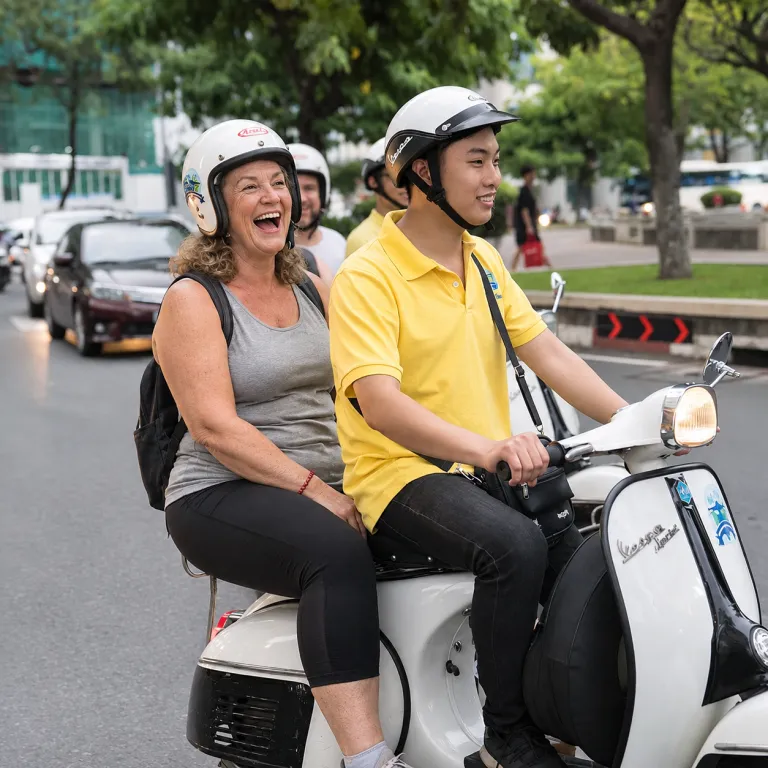
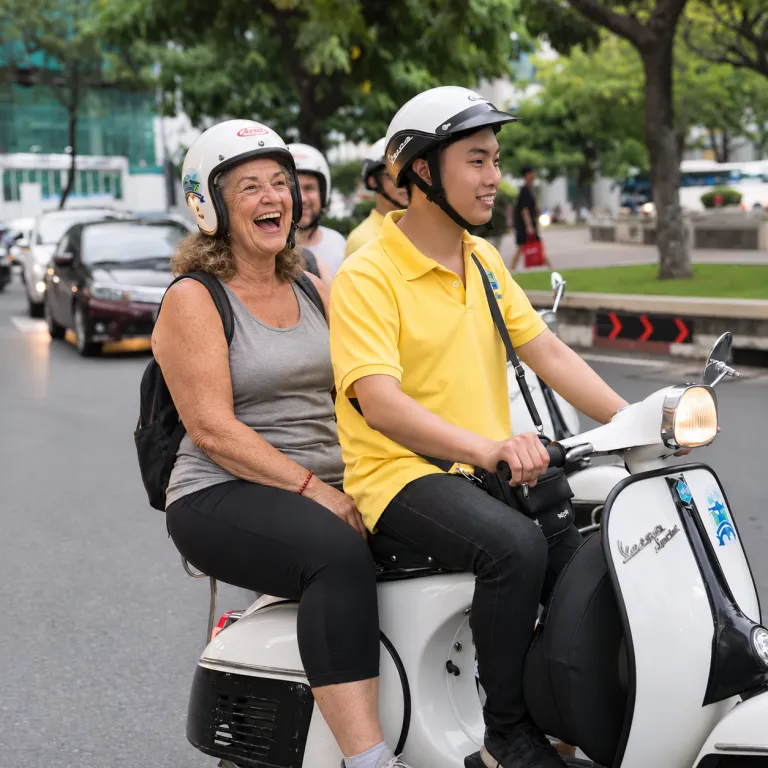
Client round 2026-11-01: journey mottos on their own line, new What's Included copy, older-guest photos
- "Curated Essence" / "Deeper Discovery" sit on their own line under the
  journey name everywhere (Home, Journeys, both tour pages)
- What's Included on the Journeys page: client's new intro, 10 items and
  closing line; the "varies by journey" note stays at the bottom
- FAQ "What's included in my journey?" now mentions lunches and dinners
  (page and FAQ schema)
- Five gallery photos replaced with the team's AI-edited versions (older,
  more diverse guests): rice-field-cycling, img-9, motorbike-tour-laugh
  (10-day), img-8, coconut-basket-boat (7-day); cache-busted; unused
  img-8/img-9 1024 crops removed; sources in source-images-client
- consistency.css cache-bust on every page

diff --git a/html/tours/index.html b/html/tours/index.html
@@ -106,7 +106,7 @@
 <link rel="preload" href="../fonts/montserrat-latin.woff2" as="font" type="font/woff2" crossorigin>
 <link rel="stylesheet" href="../css/main.css?v=20261029">
 <link rel="stylesheet" href="../css/tours.css?v=20261031">
-<link rel="stylesheet" href="../css/consistency.css?v=20261031b">
+<link rel="stylesheet" href="../css/consistency.css?v=20261101">
 </head>
 <body class="page-tours is-inner">
 
@@ -247,7 +247,7 @@
     <ul class="tour-grid">
         <li class="tour-card tour-card--essence">
           <a class="tour-card__media" href="/tours/7-day-curated-essence/"><img src="../images/hoian-aodai-friends-768.webp" width="768" height="464" alt="Seven women in floral ao dai and conical hats strolling down a lantern-hung street in Hoi An"></a>
-          <h3 class="tour-card__title"><a href="/tours/7-day-curated-essence/">7-Day Vietnam Escape “Curated Essence”</a></h3>
+          <h3 class="tour-card__title"><a href="/tours/7-day-curated-essence/">7-Day Vietnam Escape <span class="title-motto">“Curated Essence”</span></a></h3>
           <p class="tour-card__route">Da Nang · Hoi An<i aria-hidden="true">|</i>7 Days · 6 Nights</p>
           <p class="tour-card__cost">Price: <strong>$2,495</strong> per person</p>
           <p class="tour-card__facts">Meals &amp; Experiences included<i aria-hidden="true">|</i>Intimate groups of typically 6–10 women</p>
@@ -267,7 +267,7 @@
         </li>
         <li class="tour-card tour-card--balanced">
           <a class="tour-card__media" href="/tours/10-day-balanced-journey/"><img src="../images/hue-thien-mu-aodai-768.webp" width="768" height="768" alt="A woman in a white ao dai on the stone steps below Thien Mu Pagoda in Hue at sunset"></a>
-          <h3 class="tour-card__title"><a href="/tours/10-day-balanced-journey/">10-Day Vietnam Journey “Deeper Discovery”</a></h3>
+          <h3 class="tour-card__title"><a href="/tours/10-day-balanced-journey/">10-Day Vietnam Journey <span class="title-motto">“Deeper Discovery”</span></a></h3>
           <p class="tour-card__route">Da Nang · Hoi An · Hue<i aria-hidden="true">|</i>10 Days · 9 Nights</p>
           <p class="tour-card__cost">Price: <strong>$3,295</strong> per person</p>
           <p class="tour-card__facts">Meals &amp; Experiences included<i aria-hidden="true">|</i>Intimate groups of typically 6–10 women</p>
@@ -293,21 +293,21 @@
     <div class="sj-head">
       <p class="sj-eyebrow">WHAT’S INCLUDED</p>
       <h2 class="sj-title">Thoughtfully planned. <em>Effortlessly experienced.</em></h2>
-      <p class="sj-head__desc">Each journey brings together comfortable accommodations, curated experiences, and thoughtful coordination, so you can focus on enjoying your time in Central Vietnam.</p>
+      <p class="sj-head__desc">One thoughtfully curated journey, with exceptional accommodations, meaningful experiences, and personalized care throughout your time in Central Vietnam.</p>
     </div>
     <ul class="sj-checks sj-incl__list">
-      <li><strong>Accommodations &amp; Meals</strong> Enjoy thoughtfully selected upscale hotels, daily hotel breakfasts, and all lunches and dinners specified in your chosen itinerary, at carefully selected restaurants that capture the flavors and culinary charm of Vietnam. Each dining experience is thoughtfully curated to make your time in Vietnam as memorable as it is enriching. Accommodations are based on double occupancy, with two guests sharing a room.</li>
-      <li><strong>Daily Dining &amp; Culinary Experiences</strong> Enjoy daily hotel breakfast, along with lunch and dinner at carefully selected restaurants showcasing the wonderful flavors of Central Vietnam. Your journey also includes special welcome and farewell dinners to celebrate the beginning and end of your experience.</li>
-      <li><strong>Room-Sharing Options</strong> Solo travelers may request a roommate match, subject to availability. If a suitable match cannot be arranged, a single-occupancy supplement may apply. Private rooms are available for an additional charge, subject to availability.</li>
-      <li><strong>Airport Transfers &amp; Transportation</strong> Enjoy convenient airport transfers and comfortable ground transportation for the activities outlined in your itinerary.</li>
-      <li><strong>Sightseeing &amp; Entrance Fees</strong> Explore Vietnam’s cultural treasures and iconic landmarks, with admission fees included for scheduled attractions.</li>
-      <li><strong>Curated Excursions &amp; Activities</strong> Experience Central Vietnam through thoughtfully planned excursions, cultural encounters, and memorable local experiences.</li>
-      <li><strong>English-Speaking Guide</strong> Discover Vietnam’s culture and history with insights from a knowledgeable, English-speaking local guide during scheduled guided experiences.</li>
-      <li><strong>Dedicated Host &amp; Trip Coordination</strong> Enjoy a dedicated host and thoughtful coordination throughout your journey, so you can relax and enjoy each experience.</li>
-      <li><strong>Personal Concierge Assistance</strong> We can help coordinate appointments with independent health, dental, beauty, and wellness providers. Services and payments are arranged directly with providers.</li>
-      <li><strong>Signature Wellness Experiences</strong> Unwind with selected wellness treatments included in your chosen package, as detailed in your itinerary.</li>
+      <li><strong>Premium Accommodations</strong> Enjoy comfortable stays at carefully selected five-star hotels and upscale boutique properties. Package pricing is based on double occupancy.</li>
+      <li><strong>Room-Sharing Arrangements</strong> We’ll make every effort to thoughtfully pair guests who are comfortable sharing a room. If a suitable roommate cannot be arranged, a single-occupancy supplement will apply. Guests who prefer a private room may also request one for an additional fee, subject to availability.</li>
+      <li><strong>All Meals Included</strong> Start each day with breakfast at your hotel, followed by thoughtfully selected lunches and dinners featuring the flavors of Central Vietnam.</li>
+      <li><strong>Airport Transfers &amp; Ground Transportation</strong> Airport transfers and all ground transportation required by your scheduled itinerary.</li>
+      <li><strong>All Scheduled Sightseeing &amp; Entrance Fees</strong> Admission to attractions, landmarks, and sightseeing locations included in your itinerary.</li>
+      <li><strong>Curated Excursions &amp; Activities</strong> All activities and excursions specifically listed in your selected journey’s itinerary.</li>
+      <li><strong>Bilingual Tour Guide</strong> Local knowledge, cultural insights, and guidance throughout scheduled guided experiences.</li>
+      <li><strong>Dedicated Host &amp; Trip Coordination</strong> A welcoming point of contact to help coordinate your journey and ensure a smooth, enjoyable experience.</li>
+      <li><strong>Personal Concierge Assistance</strong> Personalized assistance coordinating appointments for health, wellness, beauty, and personal-care services during your stay.</li>
+      <li><strong>Signature Wellness Experiences</strong> The specific wellness treatments identified as included in your selected package.</li>
     </ul>
-    <p class="sj-incl__close">Your journey is designed to make exploring Central Vietnam feel seamless, enriching, and personal - so you can spend less time managing logistics and more time enjoying the experience.</p>
+    <p class="sj-incl__close">Every detail is carefully arranged to make exploring Central Vietnam feel seamless, enriching, and personal—so you can spend less time managing logistics and more time enjoying the experience.</p>
     <p class="sj-note sj-incl__fine">What’s included varies by journey. Please refer to your selected package’s detailed itinerary for specific inclusions and exclusions. Optional services, treatments, and appointments not expressly included in your package may incur additional charges.</p>
 
     <div class="sj-head sj-excl__head">
@@ -368,13 +368,13 @@
     <div class="sj-days__list">
       <a class="sj-day sj-day--essence" href="/tours/7-day-curated-essence/">
         <p class="sj-day__meta">7 Days · Da Nang &amp; Hoi An</p>
-        <h3 class="sj-day__title">Vietnam Escape “Curated Essence”</h3>
+        <h3 class="sj-day__title">Vietnam Escape <span class="title-motto">“Curated Essence”</span></h3>
         <p><strong>Why choose 7 days?</strong> One memorable week. A beautiful balance of discovery, indulgence, and renewal.</p>
         <span class="sj-day__link">See the full journey →</span>
       </a>
       <a class="sj-day sj-day--balanced" href="/tours/10-day-balanced-journey/">
         <p class="sj-day__meta">10 Days · Da Nang, Hoi An &amp; Hue</p>
-        <h3 class="sj-day__title">Vietnam Journey “Deeper Discovery”</h3>
+        <h3 class="sj-day__title">Vietnam Journey <span class="title-motto">“Deeper Discovery”</span></h3>
         <p><strong>Why choose 10 days?</strong> Created for women who want to experience Central Vietnam beyond its highlights, this extended journey offers a richer cultural experience without the feeling of being rushed.</p>
         <span class="sj-day__link">See the full journey →</span>
       </a>

diff --git a/html/tours/10-day-balanced-journey/index.html b/html/tours/10-day-balanced-journey/index.html
@@ -173,7 +173,7 @@
 <link rel="stylesheet" href="../../css/main.css?v=20261029">
 <link rel="stylesheet" href="../../css/share.css?v=20261120">
 <link rel="stylesheet" href="../../css/tour-detail.css?v=20261031b">
-<link rel="stylesheet" href="../../css/consistency.css?v=20261031b">
+<link rel="stylesheet" href="../../css/consistency.css?v=20261101">
 </head>
 <body class="is-inner page-tour">
 
@@ -219,9 +219,9 @@
     <div class="tgal" data-gallery>
       <div class="tgal__main">
         <ul class="tgal__track">
-          <li><img src="../../images/rice-field-cycling.webp" width="1400" height="1050" alt="Two friends in conical hats cycling through green rice fields"></li>
-          <li><img src="../../images/motorbike-tour-laugh.webp?v=2" width="1080" height="1080" alt="A laughing guest riding pillion on a motorbike city tour" loading="lazy"></li>
-          <li><img src="../../images/img-9.webp" width="1448" height="1086" alt="Trying on a silk scarf with a local tailor" loading="lazy"></li>
+          <li><img src="../../images/rice-field-cycling.webp?v=2" width="1400" height="1050" alt="Two friends in conical hats cycling through green rice fields"></li>
+          <li><img src="../../images/motorbike-tour-laugh.webp?v=3" width="1080" height="1080" alt="A laughing guest riding pillion on a motorbike city tour" loading="lazy"></li>
+          <li><img src="../../images/img-9.webp?v=2" width="1448" height="1086" alt="Trying on a silk scarf with a local tailor" loading="lazy"></li>
           <li><img src="../../images/14-days/hoian-rooftops-aerial.webp" width="1400" height="1050" alt="Rooftops and bougainvillea of Hoi An from above" loading="lazy"></li>
           <li><img class="tgal__face" src="../../images/cooking-class-garden.webp?v=2" width="856" height="1050" alt="Two women in aprons chopping ingredients at an outdoor cooking class" loading="lazy"></li>
           <li><img src="../../images/vn-feast-table.webp" width="1024" height="1024" alt="A table of Vietnamese dishes, from beef hotpot to spring rolls" loading="lazy"></li>
@@ -237,9 +237,9 @@
       <div class="tgal__thumbs">
         <div class="tgal__viewport">
           <ul class="tgal__strip">
-            <li><button class="is-active" type="button" aria-label="Image 1"><img src="../../images/rice-field-cycling-768.webp" width="148" height="96" alt=""></button></li>
-            <li><button type="button" aria-label="Image 2"><img src="../../images/motorbike-tour-laugh-768.webp?v=2" width="148" height="96" alt=""></button></li>
-            <li><button type="button" aria-label="Image 3"><img src="../../images/img-9-768x576.webp" width="148" height="96" alt=""></button></li>
+            <li><button class="is-active" type="button" aria-label="Image 1"><img src="../../images/rice-field-cycling-768.webp?v=2" width="148" height="96" alt=""></button></li>
+            <li><button type="button" aria-label="Image 2"><img src="../../images/motorbike-tour-laugh-768.webp?v=3" width="148" height="96" alt=""></button></li>
+            <li><button type="button" aria-label="Image 3"><img src="../../images/img-9-768x576.webp?v=2" width="148" height="96" alt=""></button></li>
             <li><button type="button" aria-label="Image 4"><img src="../../images/14-days/hoian-rooftops-aerial-768.webp" width="148" height="96" alt=""></button></li>
             <li><button type="button" aria-label="Image 5"><img class="tgal__face" src="../../images/cooking-class-garden-768.webp?v=2" width="148" height="96" alt="" loading="lazy"></button></li>
             <li><button type="button" aria-label="Image 6"><img src="../../images/vn-feast-table-768.webp" width="148" height="96" alt="" loading="lazy"></button></li>
@@ -258,7 +258,7 @@
     <nav class="tour-crumbs" aria-label="Breadcrumb">
       <a href="/">Home</a><span class="tour-crumbs__sep" aria-hidden="true"><svg viewBox="0 0 7 16" width="7" height="16" fill="none"><path d="M0 15.5 4.94 0h1.44L1.44 15.5H0Z" fill="#E8EDF1"/></svg></span><a href="/tours/">Journeys</a>
     </nav>
-    <h1 class="tour-title">Vietnam Journey “Deeper Discovery”</h1>
+    <h1 class="tour-title">Vietnam Journey <span class="title-motto">“Deeper Discovery”</span></h1>
     <p class="tour-tags"><a class="tour-tag" href="#">Culture &amp; Wellness</a></p>
 
     <div class="tour-meta">
@@ -558,7 +558,7 @@
       <div class="jcards">
         <article class="jcard">
           <a class="jcard__img" href="/tours/7-day-curated-essence/"><img src="../../images/hoian-aodai-friends-768.webp" width="768" height="464" alt="Seven women in floral ao dai and conical hats strolling down a lantern-hung street in Hoi An" loading="lazy"></a>
-          <h3 class="jcard__title"><a href="/tours/7-day-curated-essence/">Vietnam Escape “Curated Essence”</a></h3>
+          <h3 class="jcard__title"><a href="/tours/7-day-curated-essence/">Vietnam Escape <span class="title-motto">“Curated Essence”</span></a></h3>
           <p class="jcard__meta"><svg class="ic" aria-hidden="true"><use href="#i-clock"/></svg>7 days · 6 nights</p>
           <p class="jcard__meta jcard__meta--group"><svg class="ic" aria-hidden="true"><use href="#i-check"/></svg>Group Size 6–10 women</p>
           <p class="jcard__price"><span>$2,495</span> per person</p>
@@ -566,7 +566,7 @@
         </article>
         <article class="jcard">
           <a class="jcard__img" href="/tours/10-day-balanced-journey/"><img src="../../images/hue-thien-mu-aodai-768.webp" width="768" height="768" alt="A woman in a white ao dai on the stone steps below Thien Mu Pagoda in Hue at sunset" loading="lazy"></a>
-          <h3 class="jcard__title"><a href="/tours/10-day-balanced-journey/">Vietnam Journey “Deeper Discovery”</a></h3>
+          <h3 class="jcard__title"><a href="/tours/10-day-balanced-journey/">Vietnam Journey <span class="title-motto">“Deeper Discovery”</span></a></h3>
           <p class="jcard__meta"><svg class="ic" aria-hidden="true"><use href="#i-clock"/></svg>10 days · 9 nights</p>
           <p class="jcard__meta jcard__meta--group"><svg class="ic" aria-hidden="true"><use href="#i-check"/></svg>Group Size 6–10 women</p>
           <p class="jcard__price"><span>$3,295</span> per person</p>

diff --git a/html/tours/7-day-curated-essence/index.html b/html/tours/7-day-curated-essence/index.html
@@ -181,7 +181,7 @@
 <link rel="stylesheet" href="../../css/main.css?v=20261029">
 <link rel="stylesheet" href="../../css/share.css?v=20261120">
 <link rel="stylesheet" href="../../css/tour-detail.css?v=20261031b">
-<link rel="stylesheet" href="../../css/consistency.css?v=20261031b">
+<link rel="stylesheet" href="../../css/consistency.css?v=20261101">
 </head>
 <body class="is-inner page-tour">
 
@@ -228,8 +228,8 @@
       <div class="tgal__main">
         <ul class="tgal__track">
           <li><img src="../../images/hoian-cycling-lanterns.webp?v=2" width="1600" height="800" alt="Two friends cycling down a lantern-hung street in Hoi An Ancient Town"></li>
-          <li><img src="../../images/coconut-basket-boat.webp" width="1100" height="1212" alt="Two friends laughing in a bamboo basket boat through the coconut palms near Hoi An" loading="lazy"></li>
-          <li><img class="tgal__face" src="../../images/img-8.webp" width="1448" height="1086" alt="A dress fitting at a tailor in Hoi An" loading="lazy"></li>
+          <li><img src="../../images/coconut-basket-boat.webp?v=2" width="1100" height="1212" alt="Two friends laughing in a bamboo basket boat through the coconut palms near Hoi An" loading="lazy"></li>
+          <li><img class="tgal__face" src="../../images/img-8.webp?v=2" width="1448" height="1086" alt="A dress fitting at a tailor in Hoi An" loading="lazy"></li>
           <li><img class="tgal__face tgal__face--tea" src="../../images/tea-ceremony-host.webp" width="1400" height="934" alt="A tea host preparing tea on a carved wooden tea tray" loading="lazy"></li>
           <li><img src="../../images/hoian-old-town-lanterns.webp" width="1400" height="876" alt="Lanterns and bougainvillea along a busy street in Hoi An Ancient Town" loading="lazy"></li>
           <li><img src="../../images/hoian-market.webp" width="900" height="600" alt="Vendors in conical hats selling fresh vegetables at a Hoi An market" loading="lazy"></li>
@@ -247,8 +247,8 @@
         <div class="tgal__viewport">
           <ul class="tgal__strip">
             <li><button class="is-active" type="button" aria-label="Image 1"><img src="../../images/hoian-cycling-lanterns-768.webp?v=2" width="148" height="96" alt=""></button></li>
-            <li><button type="button" aria-label="Image 2"><img src="../../images/coconut-basket-boat-768.webp" width="148" height="96" alt=""></button></li>
-            <li><button type="button" aria-label="Image 3"><img class="tgal__face" src="../../images/img-8-768x576.webp" width="148" height="96" alt=""></button></li>
+            <li><button type="button" aria-label="Image 2"><img src="../../images/coconut-basket-boat-768.webp?v=2" width="148" height="96" alt=""></button></li>
+            <li><button type="button" aria-label="Image 3"><img class="tgal__face" src="../../images/img-8-768x576.webp?v=2" width="148" height="96" alt=""></button></li>
             <li><button type="button" aria-label="Image 4"><img class="tgal__face tgal__face--tea" src="../../images/tea-ceremony-host-768.webp" width="148" height="96" alt=""></button></li>
             <li><button type="button" aria-label="Image 5"><img src="../../images/hoian-old-town-lanterns-768.webp" width="148" height="96" alt="" loading="lazy"></button></li>
             <li><button type="button" aria-label="Image 6"><img src="../../images/hoian-market-768.webp" width="148" height="96" alt="" loading="lazy"></button></li>
@@ -268,7 +268,7 @@
     <nav class="tour-crumbs" aria-label="Breadcrumb">
       <a href="/">Home</a><span class="tour-crumbs__sep" aria-hidden="true"><svg viewBox="0 0 7 16" width="7" height="16" fill="none"><path d="M0 15.5 4.94 0h1.44L1.44 15.5H0Z" fill="#E8EDF1"/></svg></span><a href="/tours/">Journeys</a>
     </nav>
-    <h1 class="tour-title">Vietnam Escape “Curated Essence”</h1>
+    <h1 class="tour-title">Vietnam Escape <span class="title-motto">“Curated Essence”</span></h1>
     <p class="tour-tags"><a class="tour-tag" href="#">Culture &amp; Wellness</a></p>
 
     <div class="tour-meta">
@@ -551,7 +551,7 @@
       <div class="jcards">
         <article class="jcard">
           <a class="jcard__img" href="/tours/7-day-curated-essence/"><img src="../../images/hoian-aodai-friends-768.webp" width="768" height="464" alt="Seven women in floral ao dai and conical hats strolling down a lantern-hung street in Hoi An" loading="lazy"></a>
-          <h3 class="jcard__title"><a href="/tours/7-day-curated-essence/">Vietnam Escape “Curated Essence”</a></h3>
+          <h3 class="jcard__title"><a href="/tours/7-day-curated-essence/">Vietnam Escape <span class="title-motto">“Curated Essence”</span></a></h3>
           <p class="jcard__meta"><svg class="ic" aria-hidden="true"><use href="#i-clock"/></svg>7 days · 6 nights</p>
           <p class="jcard__meta jcard__meta--group"><svg class="ic" aria-hidden="true"><use href="#i-check"/></svg>Group Size 6–10 women</p>
           <p class="jcard__price"><span>$2,495</span> per person</p>
@@ -559,7 +559,7 @@
         </article>
         <article class="jcard">
           <a class="jcard__img" href="/tours/10-day-balanced-journey/"><img src="../../images/hue-thien-mu-aodai-768.webp" width="768" height="768" alt="A woman in a white ao dai on the stone steps below Thien Mu Pagoda in Hue at sunset" loading="lazy"></a>
-          <h3 class="jcard__title"><a href="/tours/10-day-balanced-journey/">Vietnam Journey “Deeper Discovery”</a></h3>
+          <h3 class="jcard__title"><a href="/tours/10-day-balanced-journey/">Vietnam Journey <span class="title-motto">“Deeper Discovery”</span></a></h3>
           <p class="jcard__meta"><svg class="ic" aria-hidden="true"><use href="#i-clock"/></svg>10 days · 9 nights</p>
           <p class="jcard__meta jcard__meta--group"><svg class="ic" aria-hidden="true"><use href="#i-check"/></svg>Group Size 6–10 women</p>
           <p class="jcard__price"><span>$3,295</span> per person</p>

diff --git a/html/index.html b/html/index.html
@@ -103,7 +103,7 @@
 <link rel="preload" as="image" href="images/hero-banner-poster.webp?v=4" imagesrcset="images/hero-banner-poster-960.webp?v=4 960w, images/hero-banner-poster.webp?v=4 1920w" imagesizes="100vw" fetchpriority="high">
 <link rel="stylesheet" href="css/main.css?v=20261029">
 <link rel="stylesheet" href="css/home.css?v=20261031">
-<link rel="stylesheet" href="css/consistency.css?v=20261031b">
+<link rel="stylesheet" href="css/consistency.css?v=20261101">
 </head>
 <body>
 
@@ -185,7 +185,7 @@
       <article class="tour-card tour-card--essence">
         <img class="tour-card__img" src="images/hoian-aodai-friends-768.webp" width="768" height="464" alt="Seven women in floral ao dai and conical hats strolling down a lantern-hung street in Hoi An" loading="lazy">
         <p class="tour-card__badge">7 Days · $2,495</p>
-        <h3 class="tour-card__title"><span class="tour-card__icon"><svg viewBox="0 0 256 256" fill="currentColor" aria-hidden="true"><path d="M208,50a85.52,85.52,0,0,0-36.17,8c-14.67-25.9-40-38.79-41.15-39.37a6,6,0,0,0-5.36,0C124.18,19.21,98.84,32.1,84.17,58A85.52,85.52,0,0,0,48,50a6,6,0,0,0-6,6V96a86.1,86.1,0,0,0,80,85.77v40.52L82.68,202.63a6,6,0,0,0-5.36,10.74l48,24a6,6,0,0,0,5.36,0l48-24a6,6,0,1,0-5.36-10.74L134,222.29V181.77A86.1,86.1,0,0,0,214,96V56A6,6,0,0,0,208,50ZM128,30.88c6.46,3.84,23.07,15,33.33,32.94A86.5,86.5,0,0,0,128,104.5,86.5,86.5,0,0,0,94.67,63.82C104.93,45.83,121.54,34.71,128,30.88ZM54,96V62.24A74.11,74.11,0,0,1,122,136v33.76A74.1,74.1,0,0,1,54,96Zm148,0a74.1,74.1,0,0,1-68,73.76V136a74.11,74.11,0,0,1,68-73.76Z"/></svg></span>7-Day Vietnam Escape “Curated Essence”</h3>
+        <h3 class="tour-card__title"><span class="tour-card__icon"><svg viewBox="0 0 256 256" fill="currentColor" aria-hidden="true"><path d="M208,50a85.52,85.52,0,0,0-36.17,8c-14.67-25.9-40-38.79-41.15-39.37a6,6,0,0,0-5.36,0C124.18,19.21,98.84,32.1,84.17,58A85.52,85.52,0,0,0,48,50a6,6,0,0,0-6,6V96a86.1,86.1,0,0,0,80,85.77v40.52L82.68,202.63a6,6,0,0,0-5.36,10.74l48,24a6,6,0,0,0,5.36,0l48-24a6,6,0,1,0-5.36-10.74L134,222.29V181.77A86.1,86.1,0,0,0,214,96V56A6,6,0,0,0,208,50ZM128,30.88c6.46,3.84,23.07,15,33.33,32.94A86.5,86.5,0,0,0,128,104.5,86.5,86.5,0,0,0,94.67,63.82C104.93,45.83,121.54,34.71,128,30.88ZM54,96V62.24A74.11,74.11,0,0,1,122,136v33.76A74.1,74.1,0,0,1,54,96Zm148,0a74.1,74.1,0,0,1-68,73.76V136a74.11,74.11,0,0,1,68-73.76Z"/></svg></span><span>7-Day Vietnam Escape <span class="title-motto">“Curated Essence”</span></span></h3>
         <p class="tour-card__tagline">A beautiful introduction to Vietnam’s culture, coast, and charm.</p>
         <div class="tour-card__body">
           <p>Experience the beauty of Central Vietnam, from Hoi An’s lantern-lit streets and timeless traditions to Da Nang’s inviting coastline and Ba Na Hills’ breathtaking mountain scenery. Savor regional flavors, discover local culture, and enjoy moments of relaxation and rejuvenation.</p>
@@ -196,7 +196,7 @@
       <article class="tour-card tour-card--balanced">
         <img class="tour-card__img" src="images/hue-thien-mu-aodai-768.webp" width="768" height="768" alt="A woman in a white ao dai on the stone steps below Thien Mu Pagoda in Hue at sunset" loading="lazy">
         <p class="tour-card__badge">10 Days · $3,295</p>
-        <h3 class="tour-card__title"><span class="tour-card__icon"><svg viewBox="0 0 256 256" fill="currentColor" aria-hidden="true"><path d="M221.45,40.19a6,6,0,0,0-5.64-5.64C140.43,30.11,80.14,52.71,54.53,95c-17.44,28.79-16.76,62.8,1.79,96.2L35.76,211.76a6,6,0,1,0,8.48,8.48L64.8,199.68c17.27,9.59,34.7,14.41,51.49,14.41A85.38,85.38,0,0,0,161,201.47C203.29,175.86,225.88,115.57,221.45,40.19Zm-66.66,151c-24.08,14.58-52.64,14.37-81.13-.39l90.59-90.59a6,6,0,0,0-8.48-8.48L65.18,182.34c-14.76-28.49-15-57-.39-81.13,22.68-37.43,76.63-57.8,145-54.95C212.59,114.58,192.22,168.54,154.79,191.21Z"/></svg></span>10-Day Vietnam Journey “Deeper Discovery”</h3>
+        <h3 class="tour-card__title"><span class="tour-card__icon"><svg viewBox="0 0 256 256" fill="currentColor" aria-hidden="true"><path d="M221.45,40.19a6,6,0,0,0-5.64-5.64C140.43,30.11,80.14,52.71,54.53,95c-17.44,28.79-16.76,62.8,1.79,96.2L35.76,211.76a6,6,0,1,0,8.48,8.48L64.8,199.68c17.27,9.59,34.7,14.41,51.49,14.41A85.38,85.38,0,0,0,161,201.47C203.29,175.86,225.88,115.57,221.45,40.19Zm-66.66,151c-24.08,14.58-52.64,14.37-81.13-.39l90.59-90.59a6,6,0,0,0-8.48-8.48L65.18,182.34c-14.76-28.49-15-57-.39-81.13,22.68-37.43,76.63-57.8,145-54.95C212.59,114.58,192.22,168.54,154.79,191.21Z"/></svg></span><span>10-Day Vietnam Journey <span class="title-motto">“Deeper Discovery”</span></span></h3>
         <p class="tour-card__tagline">Experience more of Vietnam, with more time to connect, explore, and unwind.</p>
         <div class="tour-card__body">
           <p>Discover everything in our 7-Day Vietnam Escape, with the added richness of Hue’s imperial heritage, historic landmarks, and a memorable royal-inspired dining experience. With more time to explore, connect, and unwind, enjoy a gentler pace and a deeper appreciation of Vietnam’s culture, traditions, and timeless beauty.</p>

diff --git a/html/faqs/index.html b/html/faqs/index.html
@@ -61,7 +61,7 @@
      "name": "What’s included in my journey?",
      "acceptedAnswer": {
       "@type": "Answer",
-      "text": "Your journey includes boutique accommodations with breakfast, airport transfers, ground transportation, guided sightseeing, entrance fees, a bilingual guide, a dedicated host, personal concierge assistance, and the experiences listed in your itinerary. International airfare, travel insurance, gratuities, and optional services are not included. See What’s Included for details."
+      "text": "Your journey includes carefully selected boutique accommodations, daily hotel breakfasts, and thoughtfully curated lunches and dinners, along with airport transfers, ground transportation, guided sightseeing, entrance fees, a bilingual guide, a dedicated Host, personal concierge assistance, and all experiences outlined in your itinerary. International airfare, travel insurance, gratuities, and optional services are not included. Please see What’s Included for full details."
      }
     },
     {
@@ -235,7 +235,7 @@
 <link rel="preload" href="../fonts/montserrat-latin.woff2" as="font" type="font/woff2" crossorigin>
 <link rel="stylesheet" href="../css/main.css?v=20261029">
 <link rel="stylesheet" href="../css/faqs.css?v=20261101">
-<link rel="stylesheet" href="../css/consistency.css?v=20261031b">
+<link rel="stylesheet" href="../css/consistency.css?v=20261101">
 </head>
 <body class="page-faqs is-inner">
 
@@ -288,7 +288,7 @@
       <div class="faq-list">
         <details class="faq-item" name="faq-1" open>
           <summary class="faq-item__q"><span>What’s included in my journey?</span><span class="faq-item__icon"><svg class="ic ic--up" aria-hidden="true"><use href="#i-up"/></svg><svg class="ic ic--down" aria-hidden="true"><use href="#i-down"/></svg></span></summary>
-          <div class="faq-item__a"><p>Your journey includes boutique accommodations with breakfast, airport transfers, ground transportation, guided sightseeing, entrance fees, a bilingual guide, a dedicated host, personal concierge assistance, and the experiences listed in your itinerary. International airfare, travel insurance, gratuities, and optional services are not included. See <a href="/tours/#included">What’s Included</a> for details.</p></div>
+          <div class="faq-item__a"><p>Your journey includes carefully selected boutique accommodations, daily hotel breakfasts, and thoughtfully curated lunches and dinners, along with airport transfers, ground transportation, guided sightseeing, entrance fees, a bilingual guide, a dedicated Host, personal concierge assistance, and all experiences outlined in your itinerary. International airfare, travel insurance, gratuities, and optional services are not included. Please see <a href="/tours/#included">What’s Included</a> for full details.</p></div>
         </details>
         <details class="faq-item" name="faq-1">
           <summary class="faq-item__q"><span>Where will we stay?</span><span class="faq-item__icon"><svg class="ic ic--up" aria-hidden="true"><use href="#i-up"/></svg><svg class="ic ic--down" aria-hidden="true"><use href="#i-down"/></svg></span></summary>

diff --git a/html/blog/index.html b/html/blog/index.html
@@ -95,7 +95,7 @@
 <link rel="preload" href="../fonts/montserrat-latin.woff2" as="font" type="font/woff2" crossorigin>
 <link rel="stylesheet" href="../css/main.css?v=20261029">
 <link rel="stylesheet" href="../css/blog.css?v=20261117r">
-<link rel="stylesheet" href="../css/consistency.css?v=20261031b">
+<link rel="stylesheet" href="../css/consistency.css?v=20261101">
 </head>
 <body class="is-cream is-inner">
 

diff --git a/html/contact-us/index.html b/html/contact-us/index.html
@@ -81,7 +81,7 @@
 <link rel="preload" href="../fonts/montserrat-latin.woff2" as="font" type="font/woff2" crossorigin>
 <link rel="stylesheet" href="../css/main.css?v=20261029">
 <link rel="stylesheet" href="../css/contact-us.css?v=20261031">
-<link rel="stylesheet" href="../css/consistency.css?v=20261031b">
+<link rel="stylesheet" href="../css/consistency.css?v=20261101">
 </head>
 <body class="is-inner">
 

diff --git a/html/our-story/index.html b/html/our-story/index.html
@@ -81,7 +81,7 @@
 <link rel="preload" href="../fonts/montserrat-latin.woff2" as="font" type="font/woff2" crossorigin>
 <link rel="stylesheet" href="../css/main.css?v=20261029">
 <link rel="stylesheet" href="../css/our-story.css?v=20261031">
-<link rel="stylesheet" href="../css/consistency.css?v=20261031b">
+<link rel="stylesheet" href="../css/consistency.css?v=20261101">
 </head>
 <body class="is-inner">
 

diff --git a/html/cancellation-refund-policy/index.html b/html/cancellation-refund-policy/index.html
@@ -81,7 +81,7 @@
 <link rel="preload" href="../fonts/montserrat-latin.woff2" as="font" type="font/woff2" crossorigin>
 <link rel="stylesheet" href="../css/main.css?v=20261029">
 <link rel="stylesheet" href="../css/privacy.css?v=20261028">
-<link rel="stylesheet" href="../css/consistency.css?v=20261031b">
+<link rel="stylesheet" href="../css/consistency.css?v=20261101">
 </head>
 <body class="is-inner">
 

diff --git a/html/payment-booking-terms/index.html b/html/payment-booking-terms/index.html
@@ -81,7 +81,7 @@
 <link rel="preload" href="../fonts/montserrat-latin.woff2" as="font" type="font/woff2" crossorigin>
 <link rel="stylesheet" href="../css/main.css?v=20261029">
 <link rel="stylesheet" href="../css/privacy.css?v=20261028">
-<link rel="stylesheet" href="../css/consistency.css?v=20261031b">
+<link rel="stylesheet" href="../css/consistency.css?v=20261101">
 </head>
 <body class="is-inner">
 

diff --git a/html/privacy-policy/index.html b/html/privacy-policy/index.html
@@ -81,7 +81,7 @@
 <link rel="preload" href="../fonts/montserrat-latin.woff2" as="font" type="font/woff2" crossorigin>
 <link rel="stylesheet" href="../css/main.css?v=20261029">
 <link rel="stylesheet" href="../css/privacy.css?v=20261028">
-<link rel="stylesheet" href="../css/consistency.css?v=20261031b">
+<link rel="stylesheet" href="../css/consistency.css?v=20261101">
 </head>
 <body class="is-inner">
 

diff --git a/html/terms-and-conditions/index.html b/html/terms-and-conditions/index.html
@@ -81,7 +81,7 @@
 <link rel="preload" href="../fonts/montserrat-latin.woff2" as="font" type="font/woff2" crossorigin>
 <link rel="stylesheet" href="../css/main.css?v=20261029">
 <link rel="stylesheet" href="../css/privacy.css?v=20261028">
-<link rel="stylesheet" href="../css/consistency.css?v=20261031b">
+<link rel="stylesheet" href="../css/consistency.css?v=20261101">
 </head>
 <body class="is-inner">
 
